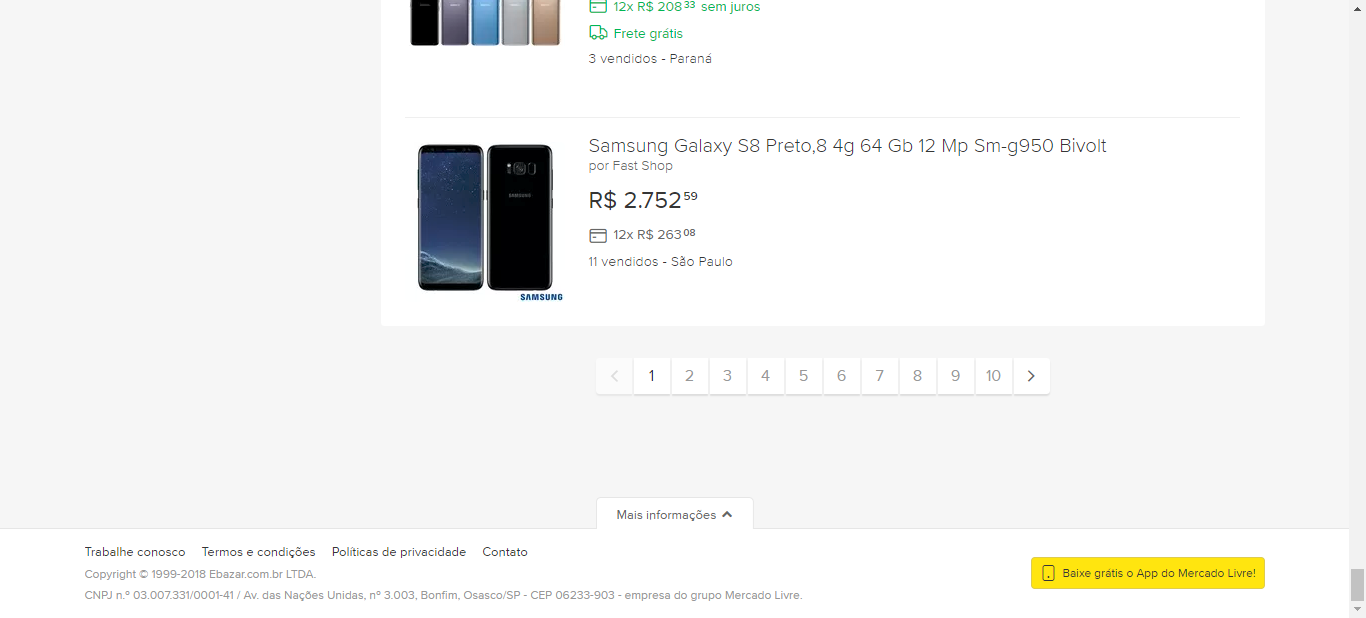
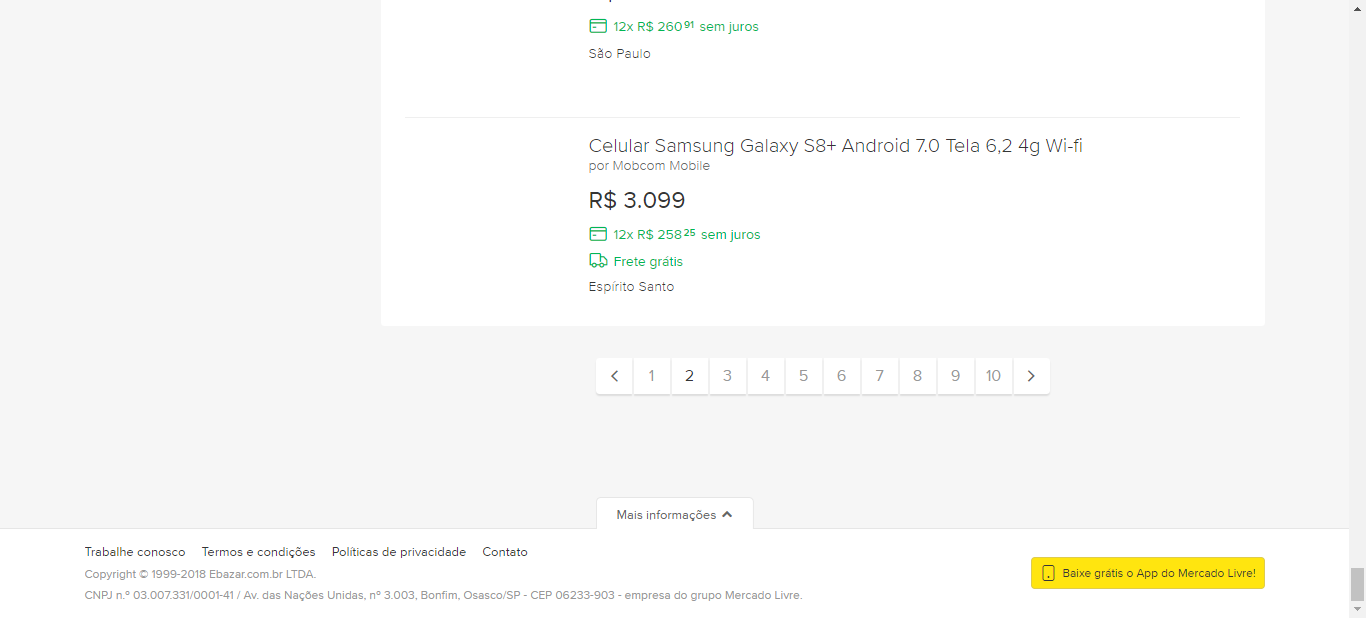
Atualizando

Changed region(s): [[0.3075, 0.2152, 0.8302, 0.4919], [0.2767, 0.0, 0.5534, 0.123], [0.4612, 0.3074, 0.5227, 0.3382]]

diff --git a/SiteMercadoLivre/features/step_definitions/Steps.rb b/SiteMercadoLivre/features/step_definitions/Steps.rb
@@ -7,22 +7,18 @@ Quando("pesquisar o produto {string}") do |produto|
   @pesquisa.fazer_pesquisa(produto).native.send_keys(:enter)
 end
 
-Entao("devem ser exibidos pelo menos {int} resultados") do |int|
-  prod = find('ol', :id => 'searchResults').text()
-  puts prod
-end
-  
+Entao("deve exibir o resultado da pesquisa pelo produto {string}") do |textpesquisa| 
+  expect(PageMercadoLivre.new.resultpesquisa.text).to eq(textpesquisa) 
+end                                                                            
+
 Quando("navegar até a segunda página de produtos") do
   @pagina = PageMercadoLivre.new
   @pagina.scroll()
   @pagina.paginacao.click
-
-  #page.execute_script "window.scrollBy(0,12000)"
-  #PageMercadoLivre.new.paginacao.click
 end
   
 Entao("devo tirar um print do penultimo item da página") do
   page.execute_script "window.scrollBy(0,12000)"
   page.save_screenshot('MercadoLivre.png')
   sleep 5
-end
+ends

diff --git a/SiteMercadoLivre/features/pages/page_geral.rb b/SiteMercadoLivre/features/pages/page_geral.rb
@@ -3,7 +3,8 @@ class PageMercadoLivre < SitePrism::Page
     set_url "http://mercadolivre.com.br"
     
     element :campo_pesquisa, "input[name='as_word']"
-	element :paginacao, "li[class='pagination__next']
+    element :paginacao, "li[class='pagination__next']"
+    element :resultpesquisa, "h1[class='breadcrumb__title']"
 
     def fazer_pesquisa(produto)
         campo_pesquisa.set(produto)
